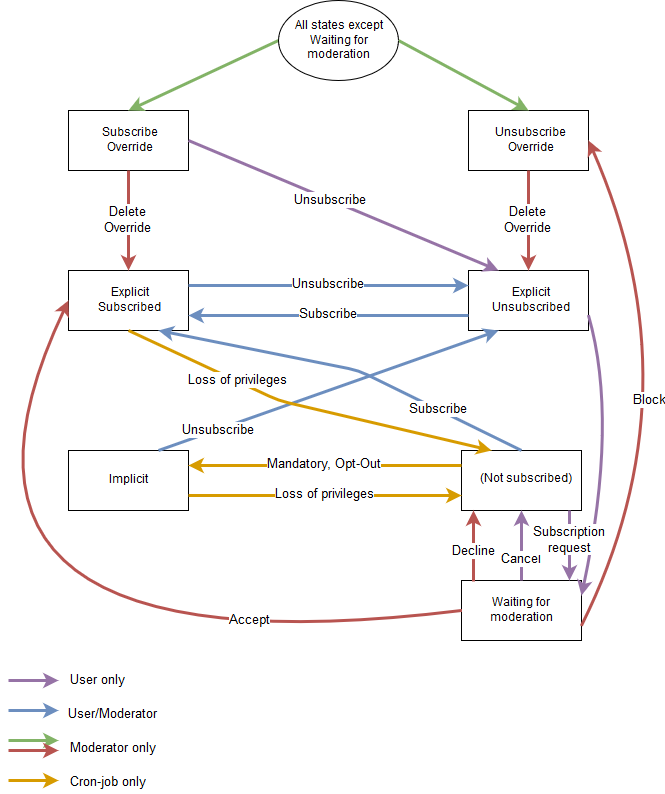
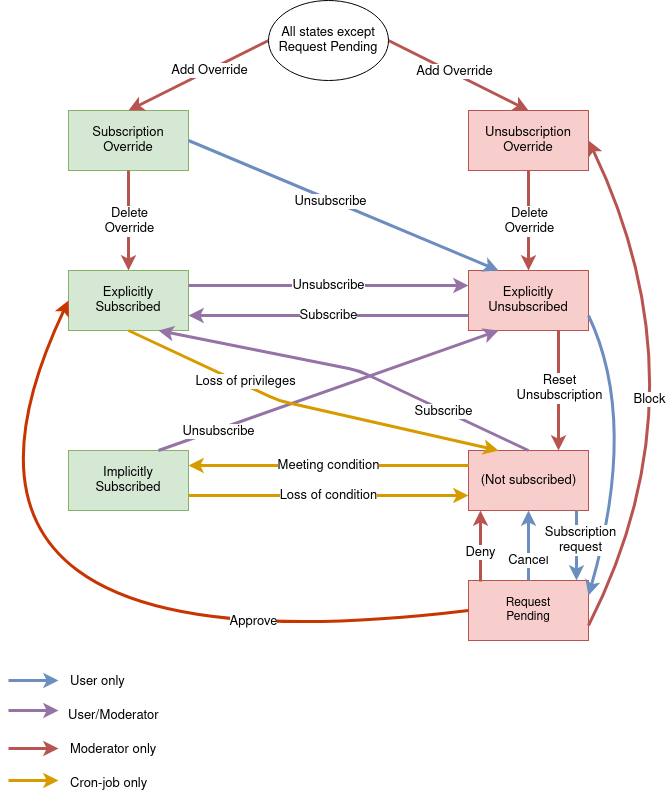
doc/ml: Update mailinglist management documentation
This updates the mailinglist management documentation to
quite a multitude of changes which have accumulated without
adjusting the documentation. This inculdes the new action
to reset unsubscriptions as well.

Furthermore, it redoes the wording to match the expressions
we use in our code.

Last but not least, it fixes the same issues in the graph and
improves its design substantially.

diff --git a/doc/source/Realm_Mailinglist_Management.rst b/doc/source/Realm_Mailinglist_Management.rst
@@ -7,7 +7,7 @@ admins using the management page, however a raw CSV file can be downloaded
 showing the actual internal states.
 
 .. figure:: SubscriptionStates.png
-    :width: 60 %
+    :width: 70 %
     :alt: Subscription state schema
     :align: center
     :figclass: align-center
@@ -17,11 +17,12 @@ showing the actual internal states.
 
 We are using a total of seven distinct states, which allow a consistent and
 useful subscription management, even if the mailinglist configuration changes.
-These states are modeled in a way that external factors only determine which
-state transitions may be done, but never to which state a given transition leads
-to. Notably, not the state transitions, but the state obtained by a transition
-determines the log codes. The only exemption to this rule is the decision of
-subscription requests, which is using specific log codes.
+
+Transitions between these states are modeled by ``SubscriptionActions``, which
+are shown as arrows in the graph. While most subscription actions act on multiple
+states, there is always a unique target state associated with each action.
+Analogously, every subscription action has a specific log code, which may however
+be used by multiple, similar actions.
 
 There is a strict separation between transitions done by users and by moderators;
 they are using different frontend endpoints which are accessed by different
@@ -31,15 +32,19 @@ management interface. Analogous, they can only subscribe to invitation only
 lists using the management interface.
 
 To maintain the correct states, we use a cron job running every 15 minutes to
-take care of automatic state transitions. In contrast to user induced changes,
-the changes done by the cron job are not logged.
+take care of automatic state transitions on all active mailinglists.
+This actually does not make use of the ``SubscriptionActions`` enum, but makes use of
+its own internal state transitioning logic. In contrast to user induced changes,
+we only log unsubscriptions done by the cronjob, while new subscriptions are
+not logged. This is done to simplify reversing unwanted unsubscriptions manually.
 
-In the CdEDBv2, we distinct between subscribing and other states, where users
-listed in subscribing states receive list emails. For subscribers, there is no
-visible distinction between the different subscribing states. Subscribing states
-are:
+In the CdEDBv2, we distinct between subscribing (shown in green in the graph)
+and other states (shown in red, respectively), where users
+listed in subscribing states receive list emails via our :doc:`Realm_Mailinglist_Software`.
+For subscribers, there is no visible distinction between the different
+subscribing states. Subscribing states are:
 
-Explicit Subscribed
+Explicitly Subscribed
     Users, which have been actively subscribed to a mailinglist, either by
     themselves or by a moderator, are saved as explicitly subscribed.
     If these users have no more means to access a list, for example because they
@@ -48,59 +53,75 @@ Explicit Subscribed
     Mailinglists without special membership implicators only have explicit
     subscribers.
 
-Subscribe Override
-    Subscribe Overrides are a special kind of explicit subscriptions, which are
+Subscription Override
+    Subscription Overrides are a special kind of explicit subscriptions, which are
     kept even if the user should not be able to access a list anymore. However,
     except for mandatory lists, they do not prevent a user from unsubscribing
     themselves.
     The list of Subscribe Overrides can be accessed by moderators via the
     management interface.
 
-Implicit Subscribed
-    Users, which are subscribed to a mailinglist, because it is opt-out or
-    linked to an event or assembly, are listed as implicit subscribers. If they
+Implicitly Subscribed
+    Users, which are subscribed to a mailinglist, because they meet some condition,
+    are listed as implicit subscribers. Typical examples are mailinglists having all
+    members or all attendees of an event or assembly as implicit subscribers. If users
     lose the automatic implicator that subscribes them to the list, they are
     removed even if they would still be able to access it.
+
     Implicit subscribers are stored in the database explicitly. This ensures the
     subscriber list displayed is always identical to the list of users emails
     are actually sent to.
 
 Other states are:
 
-None
+None (Implicitly Unsubscribed)
     This is the standard state for users having no relationship to a list
     whatsoever, because they never were listed on it or lost access to it.
     This state is the only one not explicitly saved in the database.
 
-Explicit Unsubscribed
+Explicitly Unsubscribed
     Users, which have specified they do not want to receive emails from a
     specifc mailinglist anymore. This decision is permanent, until manually
-    reverted by them or a moderator. Even if they lose access to a list and
-    regain it later on, they will not be receiving emails from it.
+    reverted by them or a moderator. Even if they lose access to a list, this
+    information is kept. Thus, if they regain access later on, these users
+    will not be receiving emails from it.
     However, if they are explicitly subscribed again, they do not receive
     special treatment.
 
-Unsubscribe Override
-    Unsubscribe Overrides are a special kind of explicit unsubscriptions, which
+    Due to this fact, users tend to get "stuck" in this case, since it is not
+    cleaned up by the cronjob. For example, every user who has been manually
+    removed from a mailinglist by a moderator, will stay here forever without
+    further intervention. While the state transitions are designed with this
+    in mind, making no difference between manual actions on explicitly and
+    implicitly unsubscribed users, it is still possible for moderators to
+    cleanup explicit unsubscriptions to implicit subscriptions.
+
+    To not obstruct the design of the state schema, this should only be used
+    to cleanup test cases or to prepare for the use of tools which might be
+    obstructed by explicit unsubscriptions, for example the account merge tool.
+
+Unsubscription Override
+    Unsubscription Overrides are a special kind of explicit unsubscriptions, which
     can not be removed by the affected user. Except for mandatory lists, they
     can be used to block a specific user from any kind of subscription or
     subscription request and are displayed to a user when accessing the
     mailinglist information page.
-    The list of Subscribe Overrides can be accessed by moderator via the
+    The list of Unsubscription Overrides can be accessed by moderator via the
     management interface.
 
-Waiting for moderation
+Request Pending
     This is a special case only existing for mailinglists with moderated opt-in
-    subscription policy for a group of users. These users are displayed on a
+    subscription policy for a group of users.
+    Users with pending subscription requests are displayed on a
     specific list to moderators, so they can decide if they want to approve or
-    deny their request. It is also possible to block further request by this
+    deny their request. It is also possible to block further requests by this
     user.
 
 The only case, where a list configuration change explicitly changes subscription
 states (Explicit and implicit subscriptions can still be removed if the
 configuration change makes them lose their means of access!) is a conversion to
 a mandatory list. In this case, all explicit unsubscriptions, including
-Unsubscribe Overrides, are deleted.
+Unsubscription Overrides, are deleted.
 
-Email adresses for specific mailinglists are saved separate from the
+Email adresses for specific mailinglists are saved separately from the
 subscription state to make them persistent over all states.
